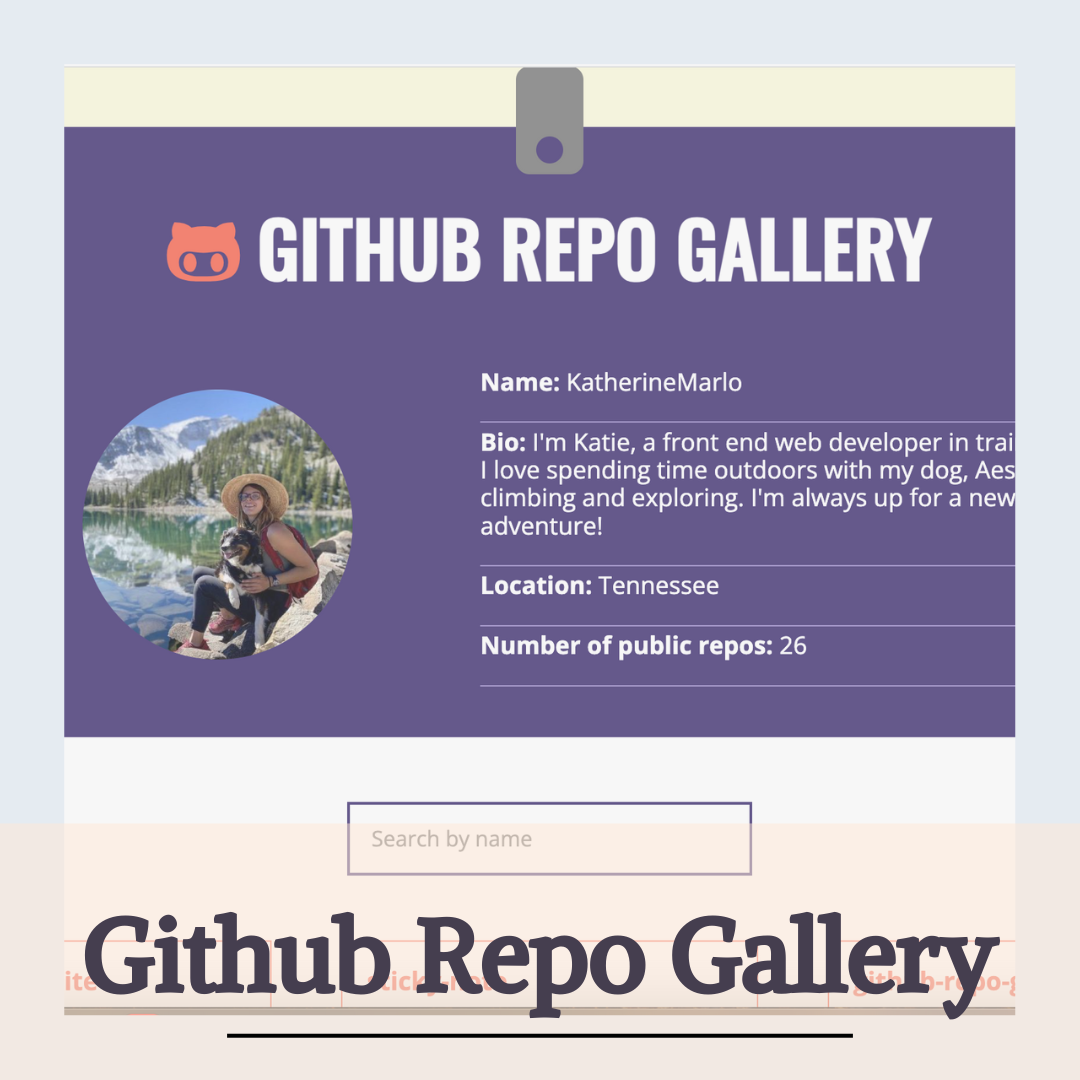
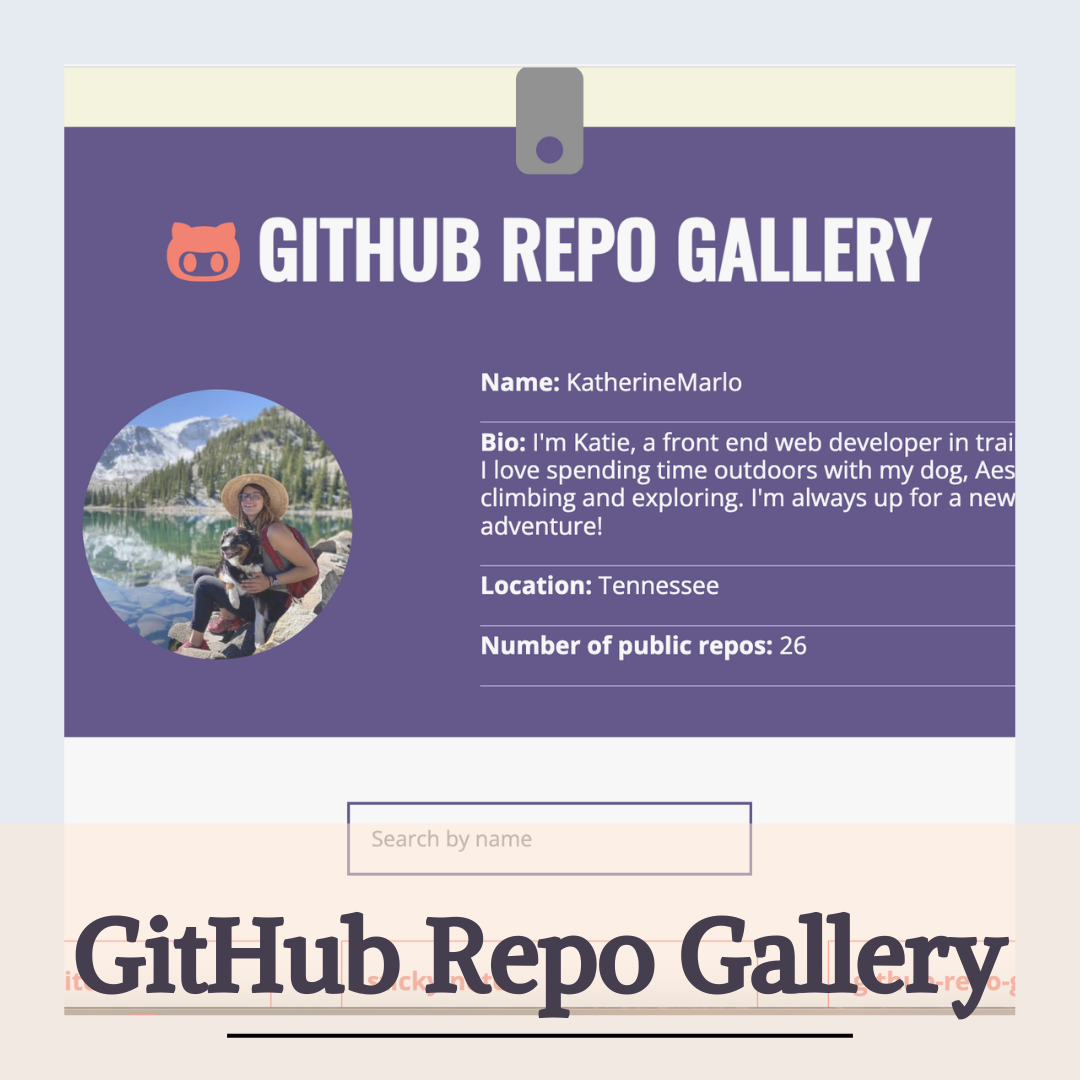
Fixed github typo centered h1 h2 on desktop

Changed region(s): [[0.0611, 0.825, 0.9472, 0.9472]]

diff --git a/index.html b/index.html
@@ -265,7 +265,7 @@
             <h3>Hi, I'm Katie Creech</h3>
             <h4>I'm a Front End Web Developer based out of Chattanooga, TN</h4>
             <p class="about-text">
-              I am a Front End Web Developer with a passion for designing websites. I admire the balance between logic and creativity that web development offers. I am always looking for ways to challenge myself and learn new things. I am also excited to use my skills to create websites that are both visually appealing and user-friendly.
+              I am a Front End Web Developer with a passion for designing websites. I admire the balance between logic and creativity that web development offers. I am always looking for ways to challenge myself and learn new things. Excited to apply my skills, I strive to craft websites that seamlessly blend visual appeal with an exceptional user experience.
             </p>
             <p>
               <span>I can't wait to work with you!</span>

diff --git a/css/main.css b/css/main.css
@@ -1018,12 +1018,8 @@ footer .social-icons li i {
   }
 
   /* header */
-  header .content-wrapper {
-    justify-content: flex-end;
-  }
-
+  
   header nav {
-    justify-content: flex-end;
     width: 45%;
   }
 
